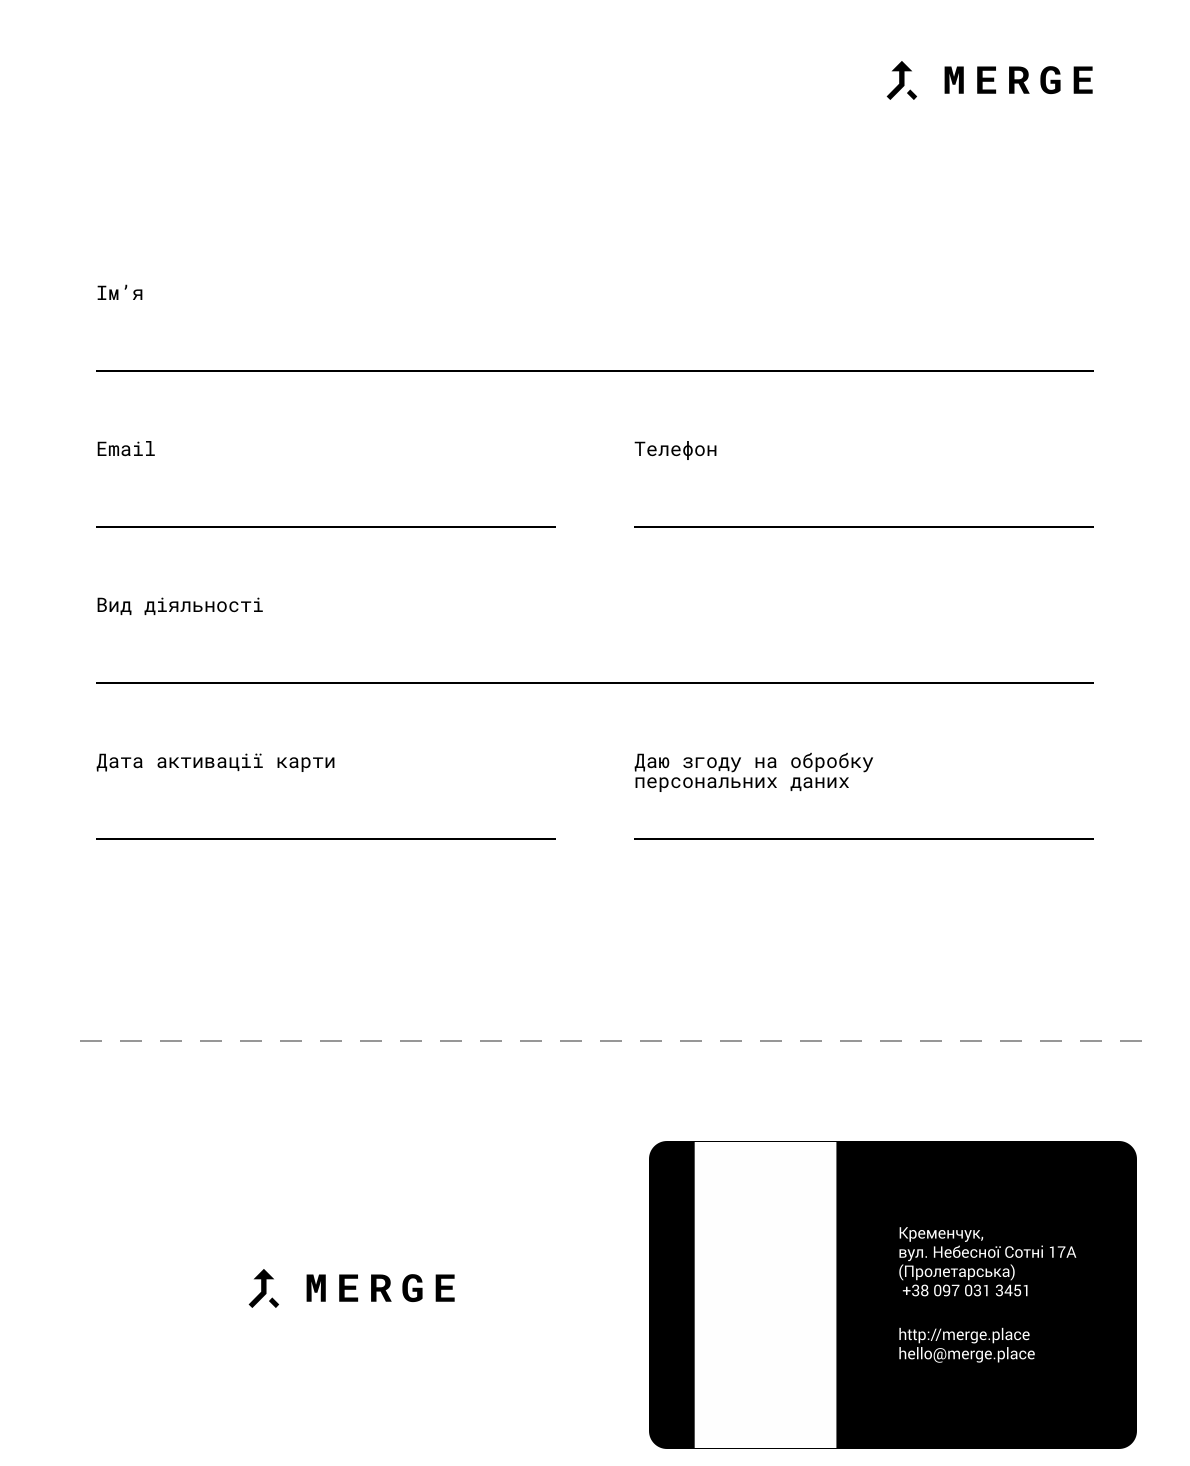
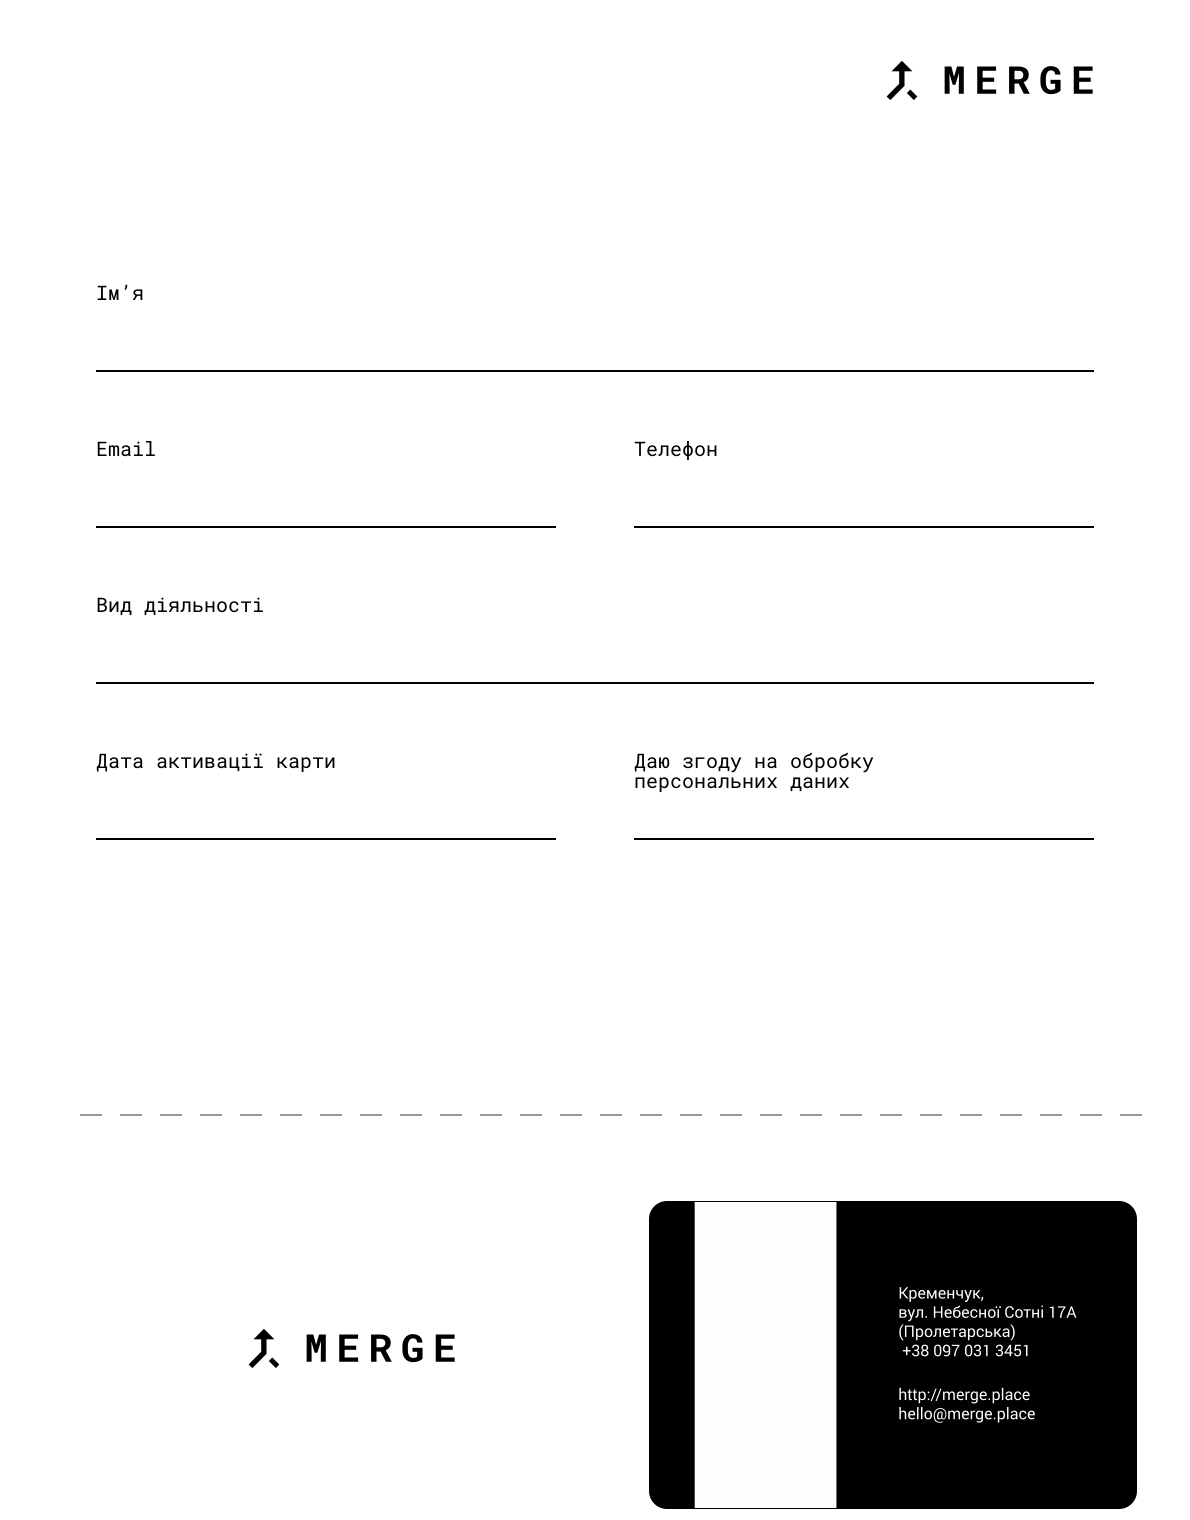
fixed the fold line

diff --git a/src/toolbox/card-generator/index.html b/src/toolbox/card-generator/index.html
@@ -42,7 +42,7 @@
 
     .barcode--card__wrap {
         position: absolute;
-        top: 1230px;
+        top: 1290px;
         left: 610px;
         width: 308px;
         height: 130px;
